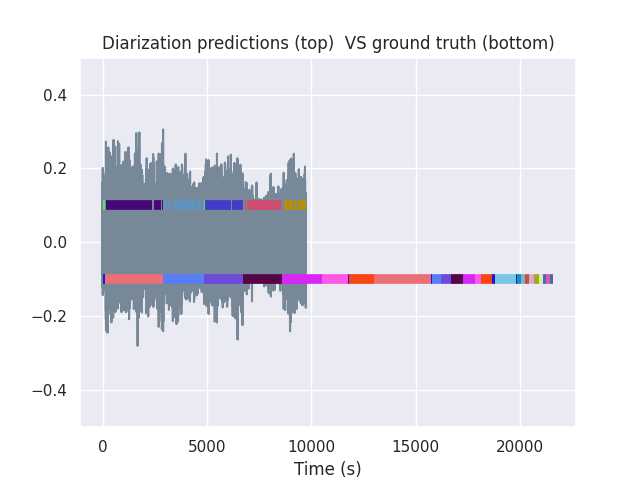
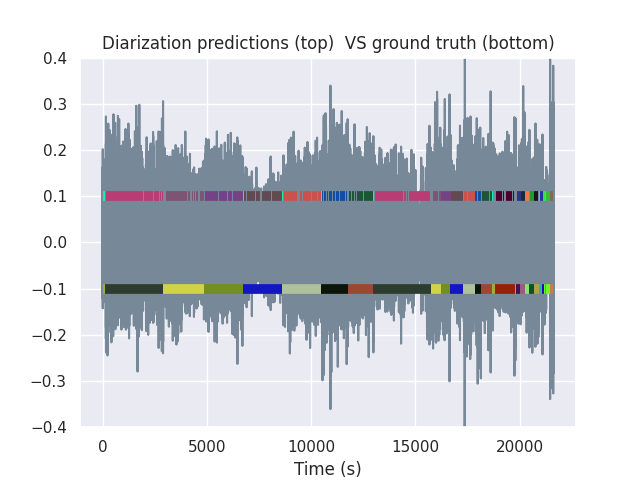
results with Pyannote

diff --git a/diarization/comparing_models/config.py b/diarization/comparing_models/config.py
@@ -5,5 +5,5 @@ PATHS = {
     'pyannote_simplified' : "diarization/PyAnnote/results_simplified.txt",
     'whisperX' : "diarization/WhisperX/whisperX.txt",
     'parlament_gt': "diarization/GROUND_TRUTH/PARLAMENT/ground_truth.json",
-    'parlament_preds' : "diarization/PyAnnote/parlament_predicts.txt"
+    'parlament_preds' : "diarization/PyAnnote/parlament_predicts2.txt"
 }
